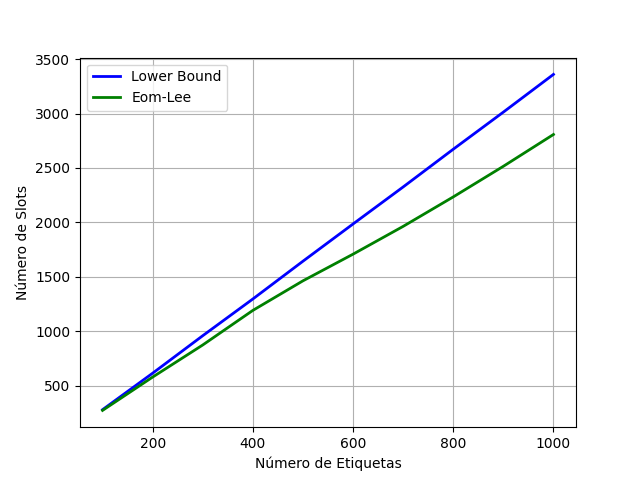
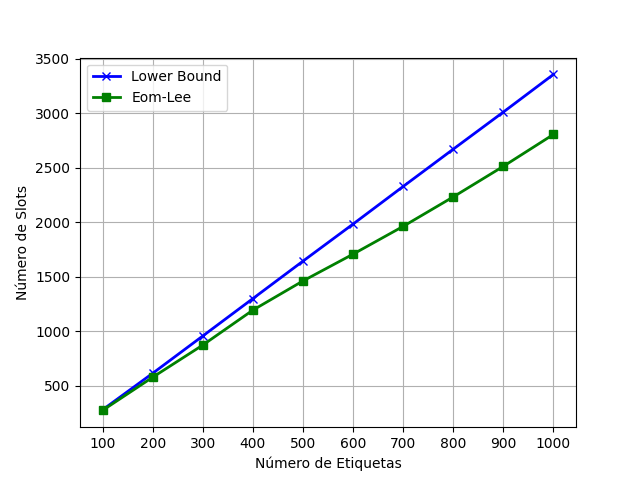
Add markers and xticks to graph plots

diff --git a/core/estimators.py b/core/estimators.py
@@ -154,6 +154,7 @@ def simulate(
 def simulation_plot_graphs(estimator_results):
     colors = ["blue", "green"]
     labels = ["Lower Bound", "Eom-Lee"]
+    markers = ["x", "s"]
     for result in estimator_results:
         plt.xlabel("Número de Etiquetas")
         plt.ylabel("Número de Slots em Colisão")
@@ -163,6 +164,11 @@ def simulation_plot_graphs(estimator_results):
             linewidth=2,
             color=colors[result],
             label=labels[result],
+            marker=markers[result],
+        )
+        plt.xticks(
+            estimator_results[result]["list_tags_interval"],
+            estimator_results[result]["list_tags_interval"],
         )
         plt.legend()
         plt.grid(True)
@@ -180,6 +186,11 @@ def simulation_plot_graphs(estimator_results):
             linewidth=2,
             color=colors[result],
             label=labels[result],
+            marker=markers[result],
+        )
+        plt.xticks(
+            estimator_results[result]["list_tags_interval"],
+            estimator_results[result]["list_tags_interval"],
         )
         plt.legend()
         plt.grid(True)
@@ -197,6 +208,11 @@ def simulation_plot_graphs(estimator_results):
             linewidth=2,
             color=colors[result],
             label=labels[result],
+            marker=markers[result],
+        )
+        plt.xticks(
+            estimator_results[result]["list_tags_interval"],
+            estimator_results[result]["list_tags_interval"],
         )
         plt.legend()
         plt.grid(True)
@@ -214,6 +230,11 @@ def simulation_plot_graphs(estimator_results):
             linewidth=2,
             color=colors[result],
             label=labels[result],
+            marker=markers[result],
+        )
+        plt.xticks(
+            estimator_results[result]["list_tags_interval"],
+            estimator_results[result]["list_tags_interval"],
         )
         plt.legend()
         plt.grid(True)
